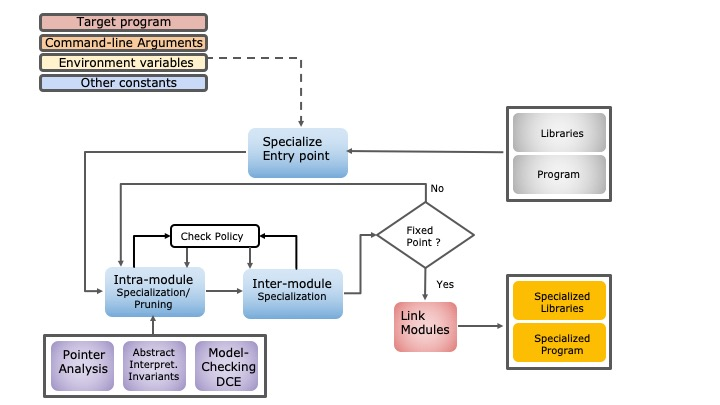
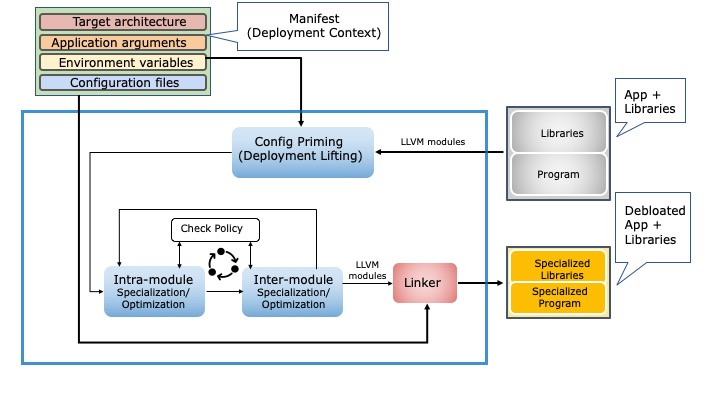
doc: update OCCAM workflow pic

diff --git a/README.md b/README.md
@@ -9,7 +9,7 @@ Description
 OCCAM architecture
 ==================
 
-![OCCAM architecture](https://github.com/SRI-CSL/OCCAM/blob/master/OCCAM-arch.jpg?raw=true "OCCAM architecture")
+![OCCAM architecture](https://github.com/SRI-CSL/OCCAM/blob/llvm10/OCCAM-arch.jpg?raw=true "OCCAM architecture")
 
 Docker
 ======
